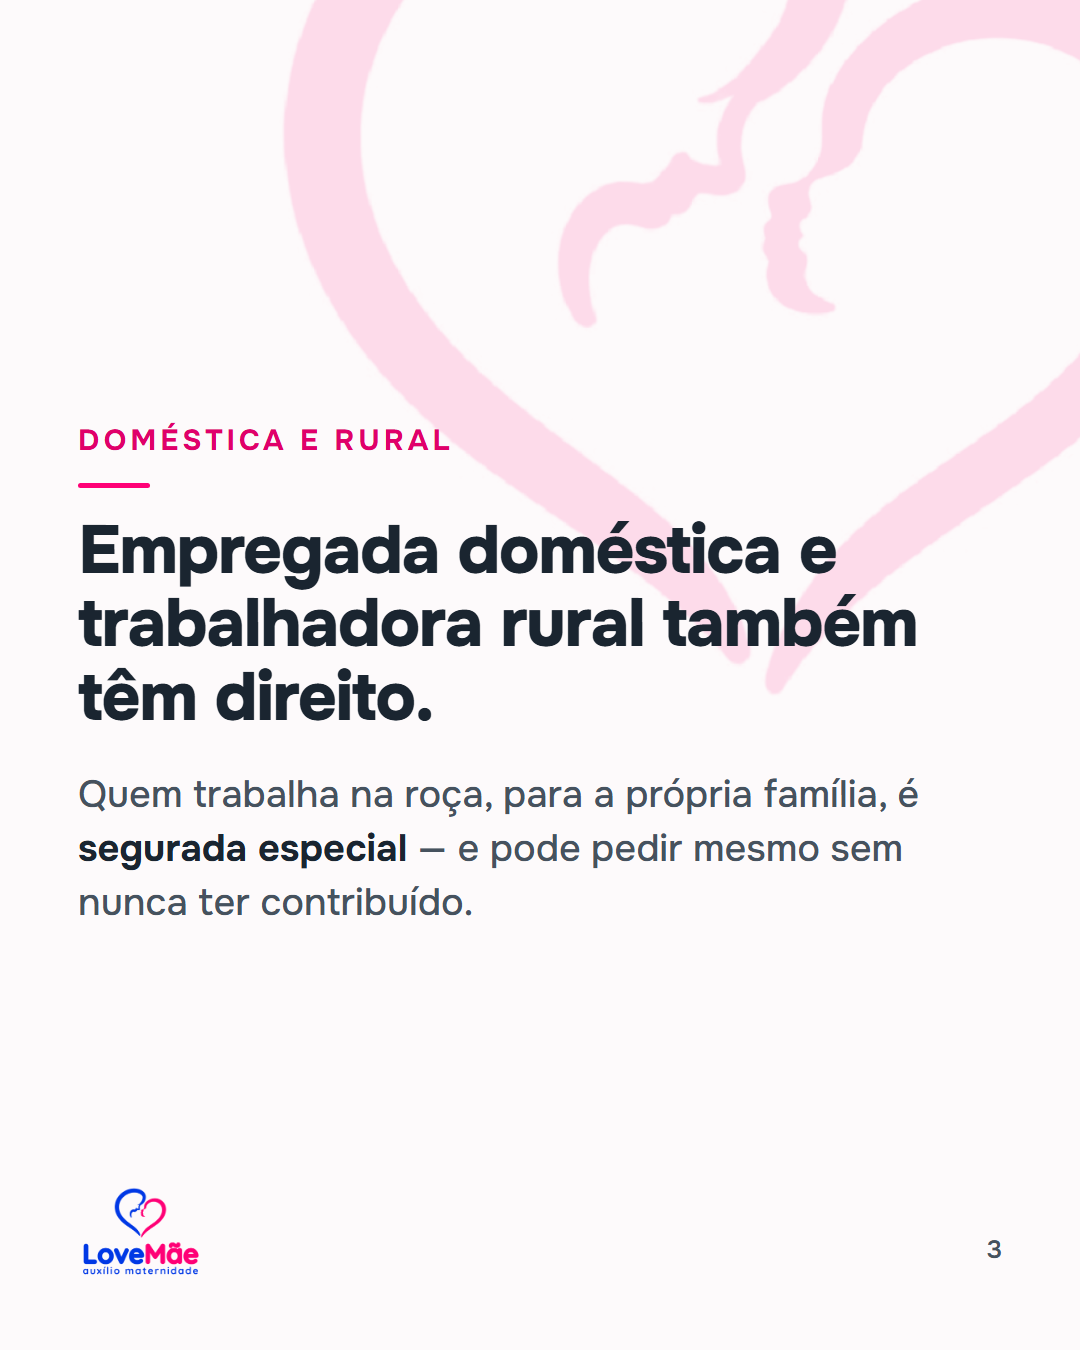
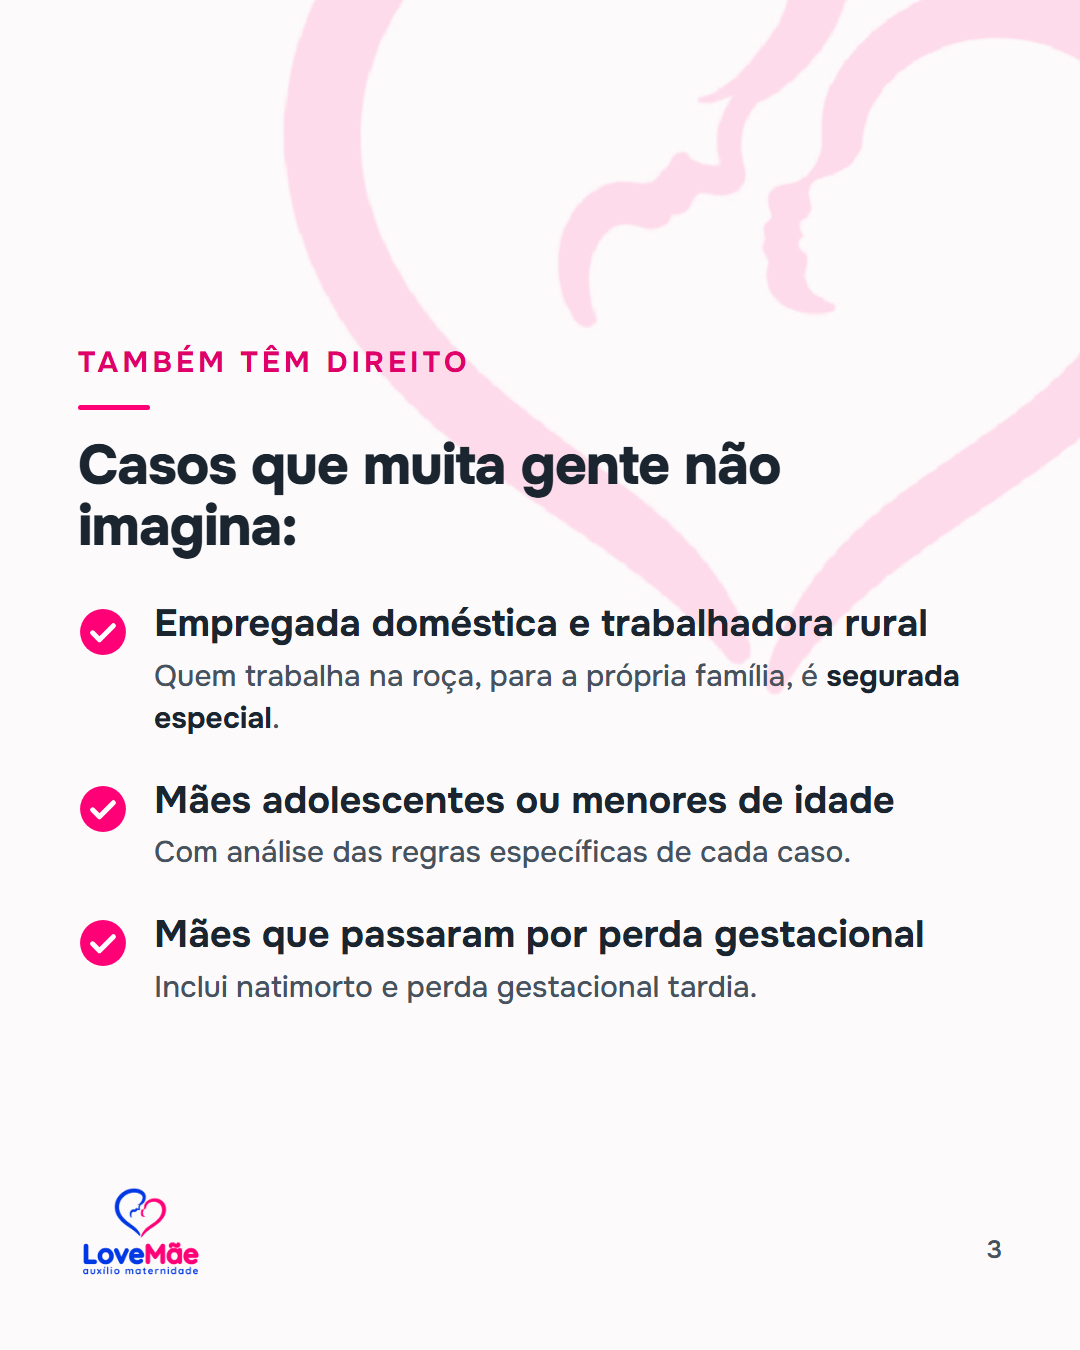
carrossel 2: slide 3 vira lista com doméstica/rural, mães menores de idade e perda gestacional

Changed region(s): [[0.0611, 0.2489, 0.8861, 0.7467]]

diff --git a/marketing/conteudo/carrossel-quem-tem-direito-2026-09-17/legenda.md b/marketing/conteudo/carrossel-quem-tem-direito-2026-09-17/legenda.md
@@ -17,8 +17,9 @@ Pode ter direito quem:
 ✔ trabalhou de carteira assinada, nem que tenha sido por pouco tempo
 ✔ foi demitida ou pediu demissão durante a gravidez
 ✔ contribui como MEI, autônoma ou contribuinte individual
-✔ é empregada doméstica
-✔ é trabalhadora rural (segurada especial)
+✔ é empregada doméstica ou trabalhadora rural (segurada especial)
+✔ é mãe adolescente ou menor de idade (com análise das regras do caso)
+✔ passou por perda gestacional (natimorto ou perda tardia)
 ✔ parou de contribuir, mas ainda está no período de graça
 
 E tem mais: mesmo que o seu bebê já tenha nascido, dá pra pedir **até ele completar 4 anos e 11 meses**. Depois disso, o direito prescreve.
@@ -48,7 +49,7 @@ https://www.lovemaeauxiliomaternidade.com.br/?utm_source=instagram&utm_medium=po
 |---|---|
 | 1 (capa) | `slide-1.png` |
 | 2 — carteira assinada + MEI/autônoma | `slide-2.png` |
-| 3 — doméstica e rural | `slide-3.png` |
+| 3 — doméstica e rural, mães menores de idade e perda gestacional | `slide-3.png` |
 | 4 — desempregada + prazo de 4 anos e 11 meses | `slide-4.png` |
 | 5 — CTA | `slide-5.png` |
 
